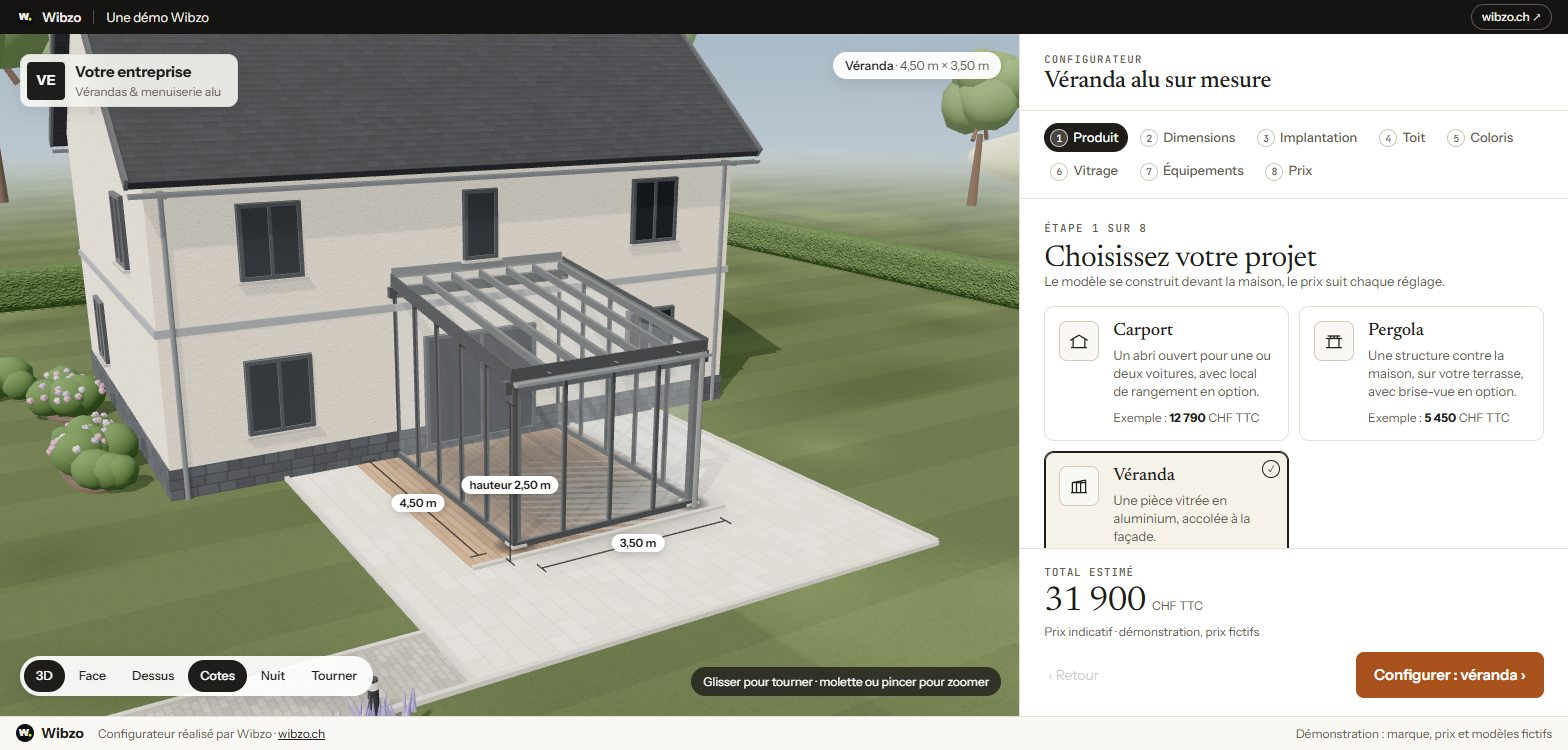
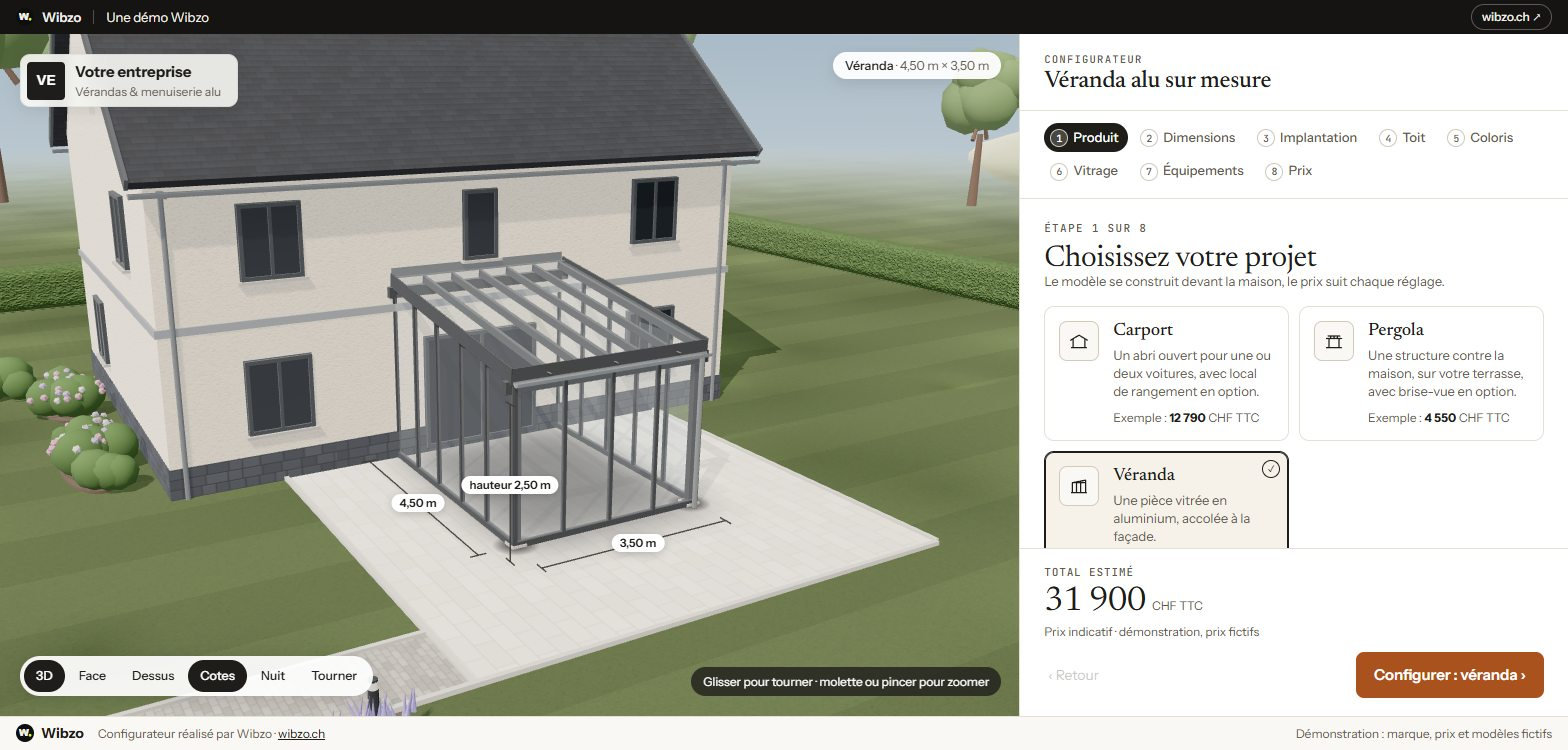
Démo : sol de la pergola et de la véranda corrigé (plus de plancher en double qui scintillait)

diff --git a/configurateurs/carport-demo/app.js b/configurateurs/carport-demo/app.js
@@ -968,7 +968,8 @@ function construire() {
   // Base : pavés + allée devant (ou terrasse en lames de bois, sans allée), bordures
   // (avec le décor, l'allée pavée jusqu'à la rue est dessinée par decor.js)
   const terrasse = CONFIG.sol === 'terrasse';
-  if (!DECOR || terrasse) {
+  // (avec le décor, la terrasse dallée de decor.js sert de sol : pas de plancher bois en double, il scintillait)
+  if (!DECOR) {
     const allee = terrasse ? 0.6 : 4;
     const largP = W + 0.6;
     const longP = L + 0.6 + allee;
